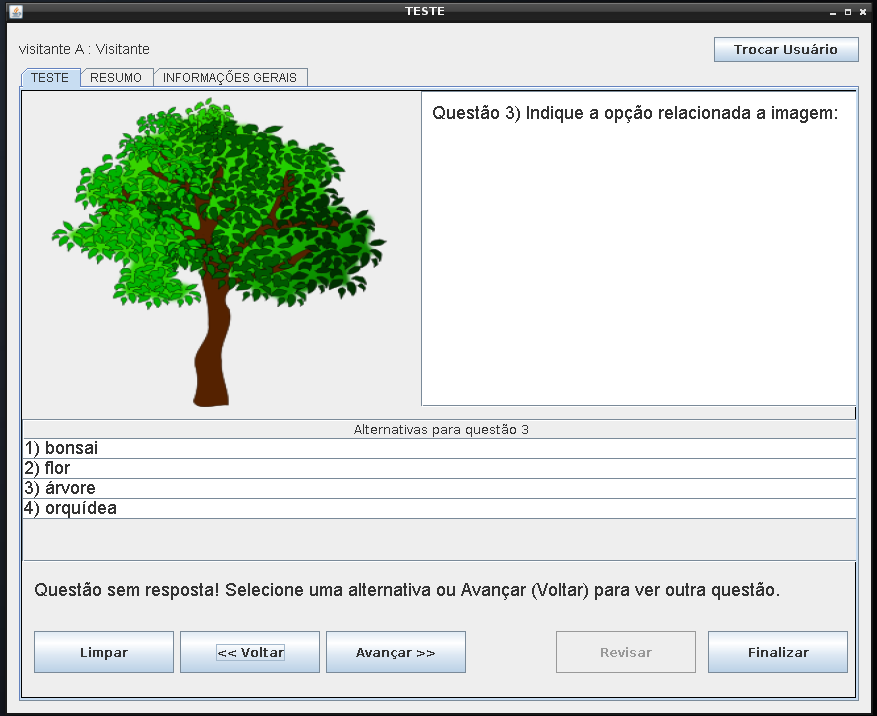
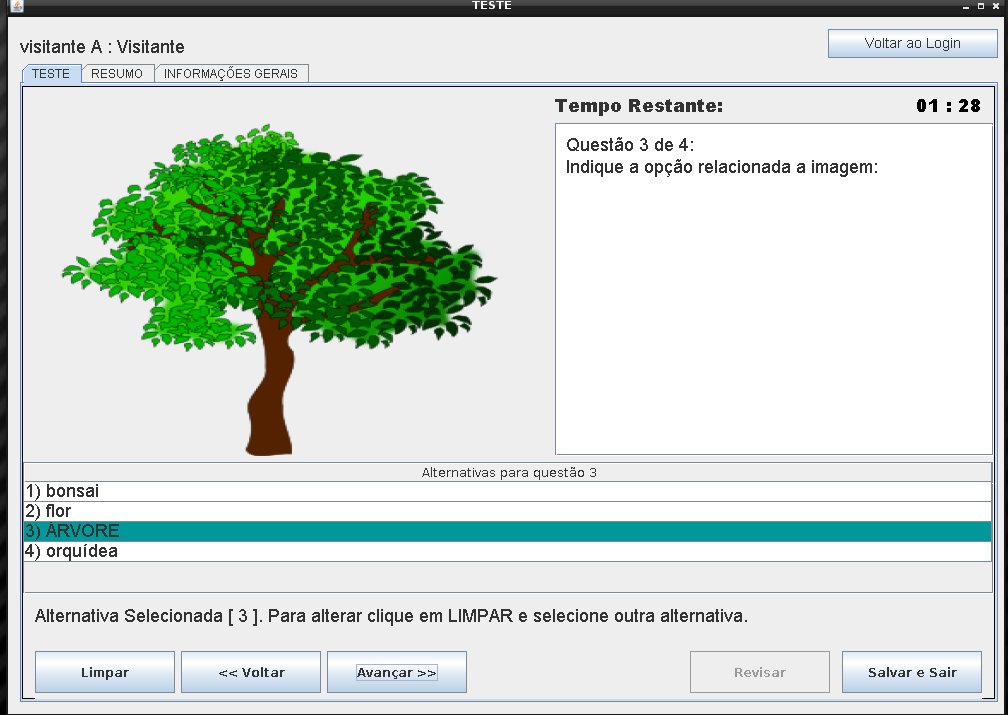
update controller

Changed region(s): [[0.0, 0.0, 1.0, 1.0]]

diff --git a/src/controller/Controller.java b/src/controller/Controller.java
@@ -1,6 +1,7 @@
 package controller;
 
 import java.awt.Color;
+import java.awt.Component;
 import java.awt.ComponentOrientation;
 import java.awt.Graphics;
 import java.awt.Image;
@@ -16,6 +17,7 @@ import java.io.FileNotFoundException;
 import java.io.IOException;
 import java.util.ArrayList;
 import java.util.Collections;
+import java.util.Enumeration;
 import java.util.HashMap;
 import java.util.Map;
 import java.util.logging.Level;
@@ -24,8 +26,13 @@ import javax.imageio.ImageIO;
 import javax.swing.ImageIcon;
 import javax.swing.JOptionPane;
 import javax.swing.JScrollPane;
+import javax.swing.JTable;
 import javax.swing.JTextArea;
 import javax.swing.Timer;
+import javax.swing.table.DefaultTableCellRenderer;
+import javax.swing.table.DefaultTableModel;
+import javax.swing.table.TableCellRenderer;
+import javax.swing.table.TableColumn;
 import model.Question;
 import view.GuiTest;
 import view.Login;
@@ -92,11 +99,16 @@ public class Controller {
     private static final int PLAYTIMER = 40;    // segundos por questão
 
     public Controller() {
+        // dados
         groups = new HashMap<>();
         users = new HashMap<>();
         availableTests = new HashMap<>();
+
+        // GUI Login
         guiLogin = new Login();
-        guiLogin.ouvirLogin(new ActionsGuiLogin());
+        guiLogin.listenLogin(new ActionsGuiLogin());
+
+        // GUI Teste
         guiTest = new GuiTest();
         guiTest.eventTest(new ActionsGuiTest());
         guiTest.eventOptions(new ActionsGuiTestTable());
@@ -107,6 +119,7 @@ public class Controller {
             }
         });
 
+        // resumo
         txtAreaSummary = new BackGroundTextArea();
         txtAreaSummary.setText("");
         txtAreaSummary.setEditable(false);
@@ -119,6 +132,7 @@ public class Controller {
         jScrollPaneSummary.setViewportView(txtAreaSummary);
         guiTest.tablePanel.addTab("RESUMO", jScrollPaneSummary);
 
+        // informe (help)
         txtAreaHelp = new BackGroundTextArea();
         txtAreaHelp.setText(HELP);
         txtAreaHelp.setEditable(false);
@@ -131,7 +145,7 @@ public class Controller {
         jScrollPaneHelp.setViewportView(txtAreaHelp);
         guiTest.tablePanel.addTab("INFORMAÇÕES GERAIS", jScrollPaneHelp);
 
-        // controlador de tempo
+        // contagem de tempo
         countTime = PLAYTIMER;
         timer = new Timer(1000, (ActionEvent e) -> {
             if (started) {
@@ -152,6 +166,7 @@ public class Controller {
             }
         });
 
+        // iniciar
         checkBaseFiles();
         loadData();
         login();
@@ -243,7 +258,7 @@ public class Controller {
 
     private void updateAvaliableThemes() {
         String selectedGroup = String.valueOf(guiLogin.cboxGroup.getSelectedItem());
-        System.out.println("Temas de " + selectedGroup + " ...");
+        System.out.println("theme ... " + selectedGroup + " ...");
 
         if (selectedGroup == null) {
             return;
@@ -278,13 +293,14 @@ public class Controller {
     }
 
     private void login() {
+        // nova rodada
         currentQuestion = 1;
         currentTheme = "";
-        started = false;
-        congratulations = false;
-        countTime = PLAYTIMER;
-        timer.setInitialDelay(0);
-        timer.start();
+        started = false;            // contagem de tempo liberada = falso
+        congratulations = false;    // acertou todas as respostas = falso
+        countTime = PLAYTIMER;      // tempo mínimo por questão em segundos
+        timer.setInitialDelay(0); 
+        timer.start();              // iniciar objeto Timer
         guiTest.btnClean.setEnabled(true);
         guiTest.btnNext.setEnabled(true);
         guiTest.btnPrevious.setEnabled(true);
@@ -301,6 +317,7 @@ public class Controller {
             currentUser = "usuário";
         }
 
+        // checar testes disponíveis para o grupo escolhido
         String file = "";
         if (Util.fileExists(pathAvailableTests)) {
             ArrayList<String> array = Util.loadFile(pathAvailableTests);
@@ -314,7 +331,6 @@ public class Controller {
                 }
             }
         }
-
         System.out.println("check questions ... " + file + "...");
         if (Util.fileExists(pathQuestions + file)) {
             if (guiLogin.cboxTheme.isEnabled()) {
@@ -338,9 +354,9 @@ public class Controller {
 
     private void startTest(String currentGroup, String currentUser,
             String file) {
-        if (loadQuestions(file)) {
+        if (loadQuestions(file)) { // carregar questões
             String pathBg = pathImagesGui + "background.png";
-            try {
+            try { // alterar background da aba resumo e informe (help)
                 Image image = ImageIO.read(new File(pathBg));
                 if (image != null) {
                     txtAreaSummary.setBackgroundImage(image);
@@ -349,15 +365,18 @@ public class Controller {
             } catch (IOException ex) {
             }
 
-            // atualiza o tempo
+            // atualizar o tempo para contagem regressiva
             countTime = PLAYTIMER * (currentTest.size() - 1);
-            System.out.println(countTime);
+            System.out.println("updated time ... " + countTime + "seconds");
 
-            guiTest.tablePanel.setSelectedIndex(2);
+            // preparar GUI Teste
+            guiTest.tablePanel.setSelectedIndex(2); // abrir em help
             guiTest.lblUser.setText(currentUser + " : " + currentGroup);
             guiLogin.setVisible(false);
             guiTest.setVisible(true);
             answered = false;
+            
+            // atualizar questão
             updateQuestion();
         } else {
             String str = "Não há teste para:\n" + currentGroup
@@ -368,11 +387,11 @@ public class Controller {
         }
     }
 
-    private boolean loadQuestions(String arquivo) {
-        System.out.println("Carregar questões ...");
+    private boolean loadQuestions(String file) {
+        System.out.println("load questions ...");
         boolean emptyQuestions = true;
         currentTest = new ArrayList<>();
-        ArrayList<String> questions = Util.loadFile(arquivo);
+        ArrayList<String> questions = Util.loadFile(file);
 
         String[] str = questions.get(0).split(Util.DELIM);
         Question q = new Question(0, str[0], null, null);
@@ -395,7 +414,6 @@ public class Controller {
                 }
             }
         }
-
         return !emptyQuestions;
     }
 
@@ -405,35 +423,38 @@ public class Controller {
         }
         if (currentQuestion >= currentTest.size() - 1) {
             currentQuestion = currentTest.size() - 1;
-            guiTest.btnReview.setEnabled(true);
+            guiTest.btnReview.setEnabled(true); // ativar botão revisar
         } else {
             guiTest.btnReview.setEnabled(false);
         }
 
-        // atualiza questão
+        // atualizar questão
         String str = "Questão " + currentTest.get(currentQuestion).getNumber()
-                + ") " + currentTest.get(currentQuestion).getQuestion();
+                + " de " + Integer.toString(currentTest.size() - 1) + ":\n"
+                + currentTest.get(currentQuestion).getQuestion();
         guiTest.txtAreaQuestion.setComponentOrientation(ComponentOrientation.LEFT_TO_RIGHT);
         guiTest.txtAreaQuestion.setText(str);
 
-        // atualiza alternativas na tabela
+        // atualizar alternativas na tabela
         updateOptions(currentTest.get(currentQuestion).getCurrentAnswer());
 
-        // atualiza informe
+        // atualizar informe (help)
         updateReports();
 
-        // atualiza imagem da questão
+        // atualizar imagem da questão
         updateImageQuestion();
 
-        // atualiza o resumo com as respostas
+        // atualizar o resumo com as respostas
         updateSummary();
     }
 
     private void updateSavedResponses() {
+        // salvar a resposta escolhida pelo usuário
         int optionSaved = currentTest.get(currentQuestion).getCurrentAnswer();
-        int row = guiTest.tbOptions.getSelectedRow();
-        if (optionSaved == -1) {
+        int row = guiTest.tbOptions.getSelectedRow();   // alternativa
+        if (optionSaved == -1) { // se questão sem resposta, atualizar
             currentTest.get(currentQuestion).setCurrentAnswer(row);
+            // checar se a resposta escolhida está certa
             if (currentTest.get(currentQuestion).getAnswer().equals(String.valueOf(row))) {
                 currentTest.get(currentQuestion).setHit(true);
             } else {
@@ -443,6 +464,7 @@ public class Controller {
     }
 
     private void updateOptions(int chosenOption) {
+        // atualizar alternativas no JTable
         ArrayList<String> options = currentTest.get(currentQuestion).getOptions();
         String[][] elements = new String[options.size()][1];
         for (int i = 0; i < options.size(); i++) {
@@ -453,19 +475,24 @@ public class Controller {
             }
         }
 
-        guiTest.tbOptions.setModel(new javax.swing.table.DefaultTableModel(
-                elements, new String[]{
-                    "Alternativas para questão "
-                    + String.valueOf(currentTest.get(currentQuestion).getNumber())
-                }
+        guiTest.tbOptions.setModel(new DefaultTableModel(elements, new String[]{
+            "Alternativas para questão "
+            + String.valueOf(currentTest.get(currentQuestion).getNumber())
+        }
         ) {
-            boolean[] canEdit = new boolean[]{
-                false
-            };
+            boolean[] canEdit = new boolean[]{false};
         });
+
+        // atualizar cor das linhas
+        Enumeration<TableColumn> en = guiTest.tbOptions.getColumnModel().getColumns();
+        while (en.hasMoreElements()) {
+            TableColumn tc = en.nextElement();
+            tc.setCellRenderer(new OptionsColor());
+        }
     }
 
     private void updateReports() {
+        // atualizar informe sobre a questão
         int optionSaved = currentTest.get(currentQuestion).getCurrentAnswer();
         if (optionSaved == -1) {
             guiTest.lblInform.setText("Questão sem resposta!"
@@ -500,6 +527,7 @@ public class Controller {
     }
 
     private void updateSummary() {
+        // atualizar resumo
         if (!currentTest.get(0).getQuestion().equals(TEST)) {
             txtAreaSummary.setText(ALERT);
         } else {
@@ -533,7 +561,7 @@ public class Controller {
             txtAreaSummary.setText(summary);
 
             if (currentHits == currentNumberOfIssues && started) {
-                guiTest.tablePanel.setSelectedIndex(1);
+                //guiTest.tablePanel.setSelectedIndex(1);
                 started = false;
                 congratulations = true;
                 guiTest.btnClean.setEnabled(false);
@@ -549,8 +577,9 @@ public class Controller {
     }
 
     private void finalizeTest() {
-        started = false;
-
+        started = false; // parar contagem regressiva
+        
+        // salvar respostas no arquivo de saída
         ArrayList answers = new ArrayList<>();
         answers.add(currentUser + Util.DELIM + currentGroup
                 + Util.DELIM + currentTheme);
@@ -591,6 +620,7 @@ public class Controller {
     }
 
     class ActionsGuiLogin implements ActionListener {
+        // controle dos botões do GUI Login
 
         @Override
         public void actionPerformed(ActionEvent ev) {
@@ -609,6 +639,7 @@ public class Controller {
     }
 
     class ActionsGuiTest implements ActionListener {
+        // controle dos botões do GUI Teste
 
         @Override
         public void actionPerformed(ActionEvent ev) {
@@ -654,6 +685,7 @@ public class Controller {
     }
 
     class ActionsGuiTestTable implements MouseListener {
+        // controle de seleção de alternativas
 
         @Override
         public void mouseClicked(MouseEvent ev) {
@@ -681,7 +713,8 @@ public class Controller {
         }
     }
 
-    static class BackGroundTextArea extends JTextArea {
+    private class BackGroundTextArea extends JTextArea {
+        // alterar cor de JTextArea
 
         private Image backgroundImage;
 
@@ -707,7 +740,33 @@ public class Controller {
         }
     }
 
+    private class OptionsColor extends DefaultTableCellRenderer
+            implements TableCellRenderer {
+        // alterar cor das alternativas na JTable
+
+        Color optionColor = new Color(0, 152, 152);     // azul
+
+        @Override
+        public Component getTableCellRendererComponent(JTable table,
+                Object value, boolean isSelected, boolean hasFocus,
+                int row, int column) {
+            setBackground(null);
+            super.getTableCellRendererComponent(table, value, isSelected,
+                    hasFocus, row, column);
+            setText(String.valueOf(value));
+            
+            // checar se questão tem alternativa salva
+            if (row == currentTest.get(currentQuestion).getCurrentAnswer()) {
+                setBackground(optionColor);
+            } else {
+                setBackground(null);
+            }
+            return this;
+        }
+    }
+
     private String convert(int count) {
+        // contagem de tempo em minutos:segundos
         String str = "";
         int minutos = count / 60;
         int segundos = count % 60;
@@ -722,6 +781,7 @@ public class Controller {
             strSegundos = "0" + strSegundos;
         }
 
+        // alertar em cor quando chegar a 1:30 do final
         if (count > 90) {
             str += strMinutos + " : " + strSegundos;
             guiTest.lblTimer.setForeground(Color.black);

diff --git a/src/view/Login.java b/src/view/Login.java
@@ -174,7 +174,7 @@ public class Login extends javax.swing.JFrame {
     // End of variables declaration//GEN-END:variables
 
     // Métodos personalizados
-    public void ouvirLogin(ActionListener ev) {
+    public void listenLogin(ActionListener ev) {
         this.btnLogin.addActionListener(ev);
         this.btnQuit.addActionListener(ev);
         this.cboxGroup.addActionListener(ev);
